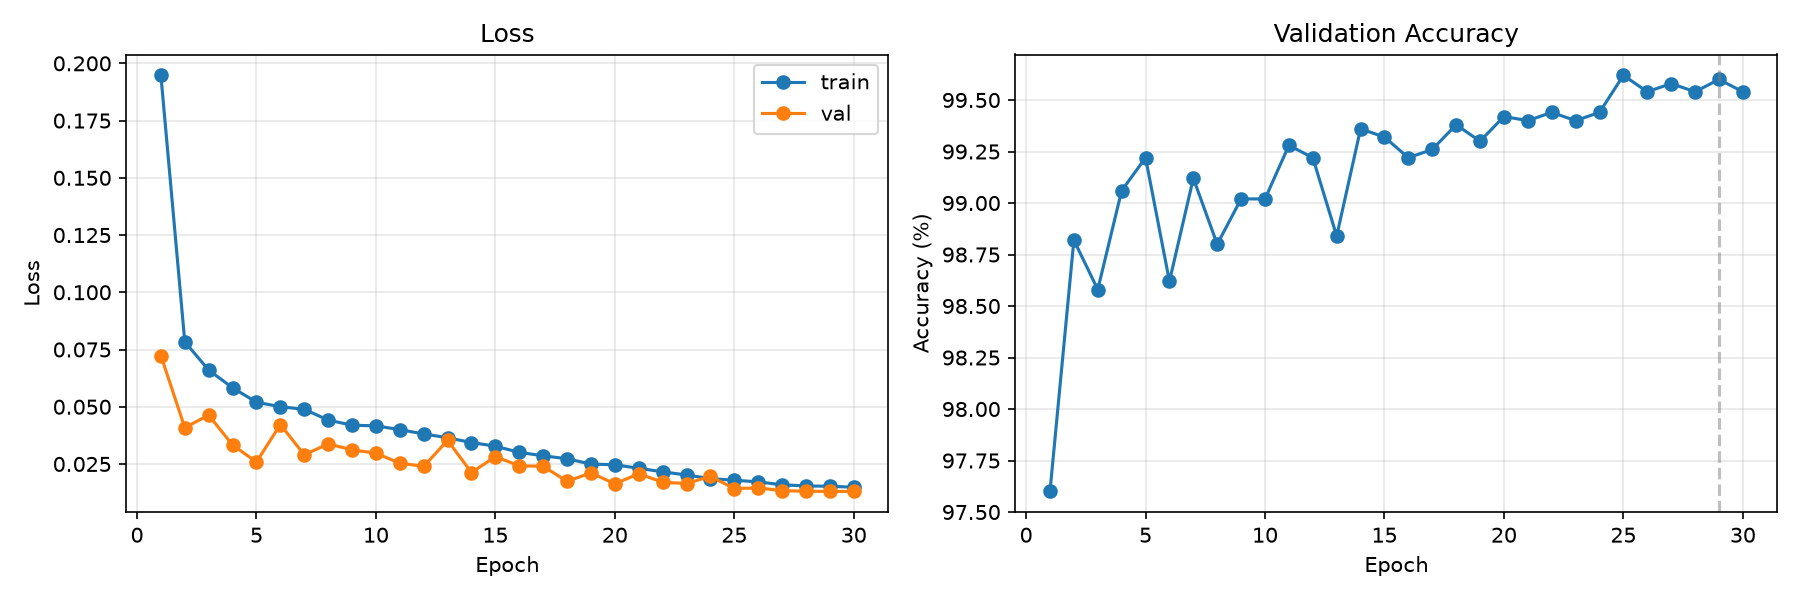
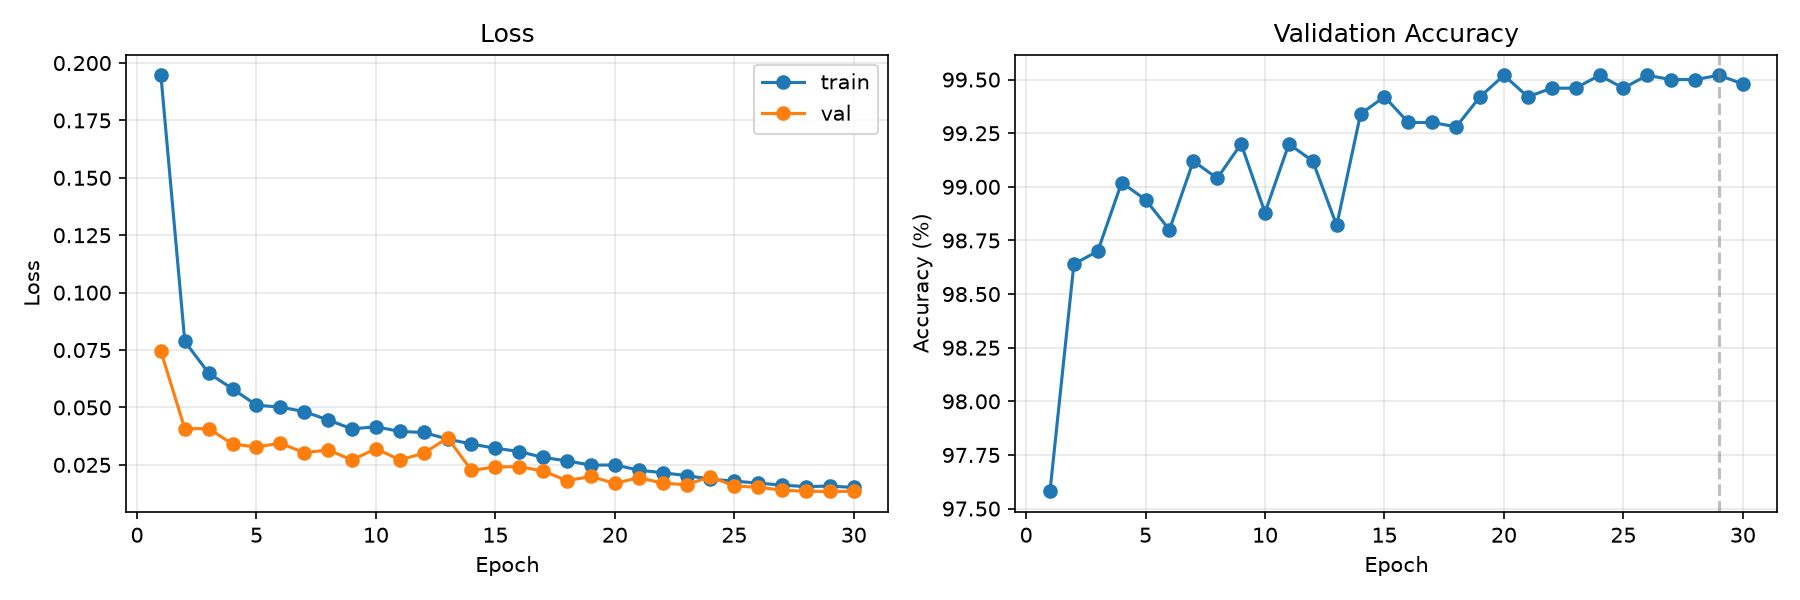
Restore full 30-epoch model after device-verification run; best val_loss 0.0134 @ epoch 29, test acc 99.62%

diff --git a/NOTES.md b/NOTES.md
@@ -4,8 +4,8 @@
 Changed `train.py` default `--patience` from 5 to 12 (best-checkpoint selection still
 on val_loss, unchanged). Training now completes all 30 epochs instead of early-stopping
 at epoch 10, so `CosineAnnealingLR(T_max=30)` fully decays from 0.0008 to ~0.
-Result (`training_history.csv`): best val_loss 0.0130 at epoch **29**
-(best val_acc **99.60%**), final test accuracy **99.55%** (up from 99.36% at patience 5).
+Result (`training_history.csv`): best val_loss 0.0134 at epoch **29**
+(best val_acc **99.52%**), final test accuracy **99.62%** (up from 99.36% at patience 5).
 
 ## 2026-09-27 — Train/val/test protocol replaces test-set checkpoint selection
 Selecting the "best" checkpoint from test-set accuracy leaked test information
